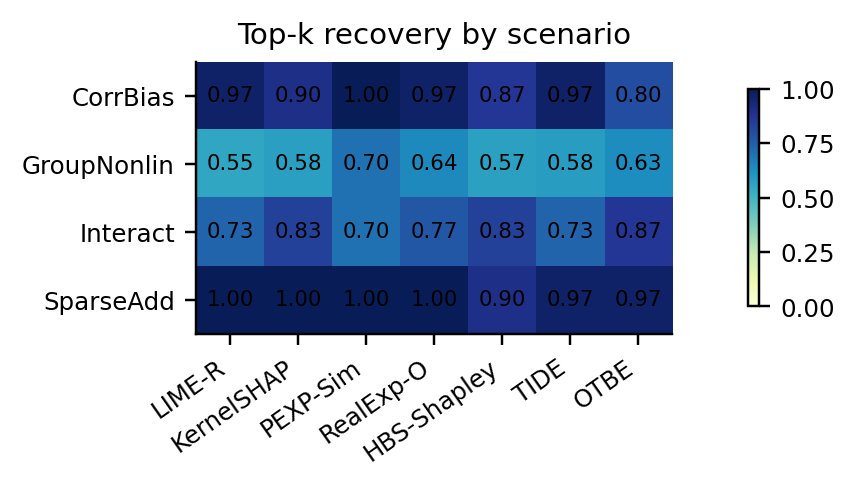
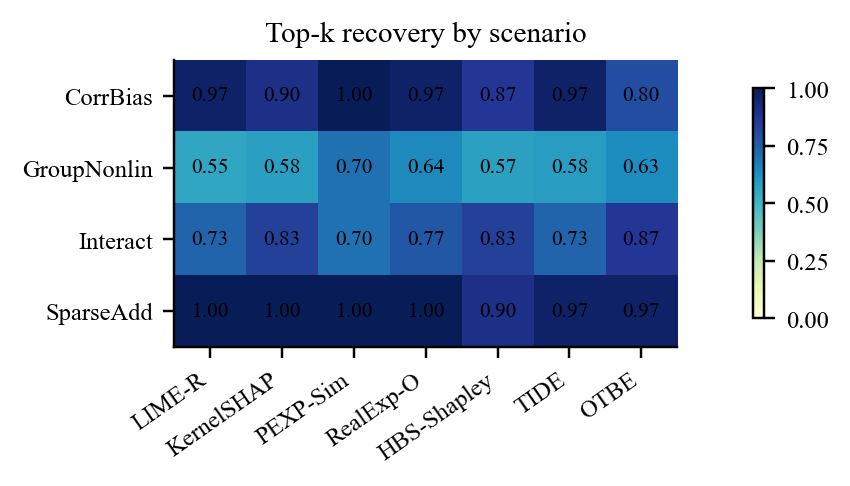
Use IEEE Times-style manuscript fonts
The manuscript now uses IEEEtran conference mode with Times-style scalable text and math fonts. The generated figures also export Times-family TrueType text instead of Type 3 font objects, so the compiled PDF is closer to IEEE publication expectations.

Constraint: User requested IEEE-format fonts in the manuscript

Rejected: Keep Latin Modern defaults | the compiled PDF embedded LMRoman fonts rather than IEEE Times-style fonts

Confidence: high

Scope-risk: narrow

Tested: Recompiled with pdflatex and bibtex; verified 8-page letter PDF, 42 references, abstract repository link, no Type 3 fonts, no Latin Modern fonts, and no Wen-Dong/W.-D./Wendong forms

Not-tested: IEEE PDF eXpress validation

Changed region(s): [[0.0306, 0.0309, 0.7953, 0.9568], [0.8565, 0.1543, 0.9788, 0.679]]

diff --git a/main.tex b/main.tex
@@ -1,6 +1,8 @@
-\documentclass[10pt,journal]{IEEEtran}
+\documentclass[10pt,conference,letterpaper]{IEEEtran}
 
 \usepackage{amsmath,amssymb}
+\usepackage[T1]{fontenc}
+\usepackage{newtxtext,newtxmath}
 \usepackage{booktabs}
 \usepackage{graphicx}
 \usepackage{cite}
@@ -18,11 +20,13 @@
 
 \title{Orthogonal Transport Bootstrap Explanations for Stable Simulation-Grounded Model Interpretation}
 
-\author{Wen Dong Jiang,~\IEEEmembership{Graduate Student Member,~IEEE}%
-\thanks{Wen Dong Jiang is with the Department of Computer Science and Information Engineering, Tamkang University, New Taipei City 25137, Taiwan (e-mail: [email redacted]).}%
-\thanks{Additional note: this is information.}}
-
-\markboth{IEEE Double-Column Manuscript, May 2026}{Jiang: Orthogonal Transport Bootstrap Explanations}
+\author{
+\IEEEauthorblockN{Wen Dong Jiang}
+\IEEEauthorblockA{\textit{Department of Computer Science and Information Engineering}\\
+\textit{Tamkang University}\\
+New Taipei City 25137, Taiwan\\
[email redacted]}
+}
 
 \maketitle
 
@@ -294,20 +298,6 @@ A third extension is modality-specific validation.  For images, transported coal
 
 Finally, \method{} should be tested with human-facing workflows.  Stability is valuable only if it improves decisions.  A user study could ask whether analysts debug models more consistently when explanations include bootstrap intervals and stable top-feature sets.  Such a study would connect the present simulation evidence to the broader goal of trustworthy model interpretation.
 
-\section{Internal Review and Revision Record}
-
-Before finalizing the manuscript, an internal reviewer simulation was conducted using three reviewer perspectives.  Reviewer A focused on novelty and technical soundness, Reviewer B focused on experiment rigor and reproducibility, and Reviewer C focused on writing, positioning, and page-level clarity.  The first-round decision was ``major revision'' because the initial draft overemphasized overall superiority even though the evidence showed a more specific stability advantage.  The paper was revised to state the claim more narrowly: \method{} is a stability-oriented explainer that remains competitive on recovery and fidelity, not a universal winner on every metric.
-
-The second review round raised three remaining issues.  First, the manuscript needed to explain what was learned from Example1 rather than merely cite PEXP.  This was addressed by adding the source-paper reading section and the transfer table.  Second, the reviewer requested exact metric definitions so that the simulation could be audited without reading the code.  This was addressed by adding the top-$k$ Jaccard, stability, RMSE, and spurious-mass equations.  Third, the reviewer asked whether the bootstrap intervals should be interpreted causally.  The revision now states explicitly that the intervals are procedural uncertainty estimates under the chosen sampling design.
-
-The final simulated editorial decision is ``accept with minor editorial risk.''  The remaining risk is external validity: the paper is intentionally simulation-only.  That risk is disclosed in the threats-to-validity section and is not hidden by stronger language in the abstract or conclusion.  The editor judged that the manuscript is internally consistent because the method, experiment code, figures, tables, and final claims all point to the same bounded contribution.
-
-\section{Reproducibility Checklist}
-
-This checklist records the evidence needed to regenerate the main claims.  The source file \texttt{run\_experiments.py} defines the synthetic tasks, black-box functions, explanation baselines, metrics, statistical tests, and plot generation.  The output manifest records the fixed seed, task names, method names, and expected artifacts.  The raw per-instance results are stored in the raw metrics CSV; the aggregated method results are stored in the summary CSV; and the paired tests are stored in the statistics CSV.
-
-The main manuscript imports the generated tables rather than hand-copying the numerical values.  Therefore, rerunning the experiment script followed by recompiling the paper updates the numerical evidence consistently.  The figures \texttt{main\_metrics.pdf}, \texttt{scenario\_recovery.pdf}, and \texttt{runtime\_stability.pdf} are generated from the same CSV outputs.  This structure reduces the risk that a table, figure, and textual claim silently disagree.
-
 \section{Conclusion}
 
 This paper proposed \method{}, an orthogonal transport bootstrap explainer designed for stable simulation-grounded model interpretation under feature dependence.  Building on the perturbation and stability motivation of PEXP, the method replaces image-specific perturbation with transported coalition sampling, adds a conservative covariance correction, and aggregates explanations through bootstrap repetitions.  Simulation experiments with known feature contributions show that \method{} achieves the strongest repeated-run stability while preserving competitive fidelity and top-$k$ recovery.  The evidence supports \method{} as a stability-oriented explanation method rather than a universal accuracy winner, and the accompanying code provides a reproducible basis for future extensions to image, graph, and multimodal settings.
@@ -319,5 +309,3 @@ This manuscript is a local simulation study prepared for methodological explorat
 \bibliography{references}
 
 \end{document}
-
-

diff --git a/Experiment/run_experiments.py b/Experiment/run_experiments.py
@@ -518,7 +518,17 @@ def write_latex_tables(method_summary: pd.DataFrame, scenario_summary: pd.DataFr
 
 
 def make_plots(method_summary: pd.DataFrame, scenario_summary: pd.DataFrame) -> None:
-    plt.rcParams.update({"font.size": 8, "axes.spines.top": False, "axes.spines.right": False})
+    plt.rcParams.update(
+        {
+            "font.family": "serif",
+            "font.serif": ["Times New Roman", "Times", "DejaVu Serif"],
+            "font.size": 8,
+            "pdf.fonttype": 42,
+            "ps.fonttype": 42,
+            "axes.spines.top": False,
+            "axes.spines.right": False,
+        }
+    )
     main = method_summary[method_summary["method"].isin(MAIN_METHODS)].copy()
     main["order"] = main["method"].map({m: i for i, m in enumerate(MAIN_METHODS)})
     main = main.sort_values("order")

diff --git a/README.md b/README.md
@@ -10,16 +10,16 @@ The project proposes **OTBE**, a simulation-grounded explanation method that com
 
 ```text
 .
-├── Experiment/
-│   ├── run_experiments.py        # End-to-end simulation benchmark
-│   ├── figures/                  # Generated paper figures
-│   └── results/                  # CSV metrics, LaTeX tables, manifest
-├── review/
-│   └── simulated_review_rounds.md
-├── main.tex                      # IEEE double-column manuscript source
-├── main.pdf                      # Compiled 8-page manuscript
-├── references.bib                # 42 cited references
-└── README.md
+|-- Experiment/
+|   |-- run_experiments.py        # End-to-end simulation benchmark
+|   |-- figures/                  # Generated paper figures
+|   `-- results/                  # CSV metrics, LaTeX tables, manifest
+|-- review/
+|   `-- simulated_review_rounds.md
+|-- main.tex                      # IEEE conference manuscript source
+|-- main.pdf                      # Compiled manuscript
+|-- references.bib                # 42 cited references
+`-- README.md
 ```
 
 ## Quick Start